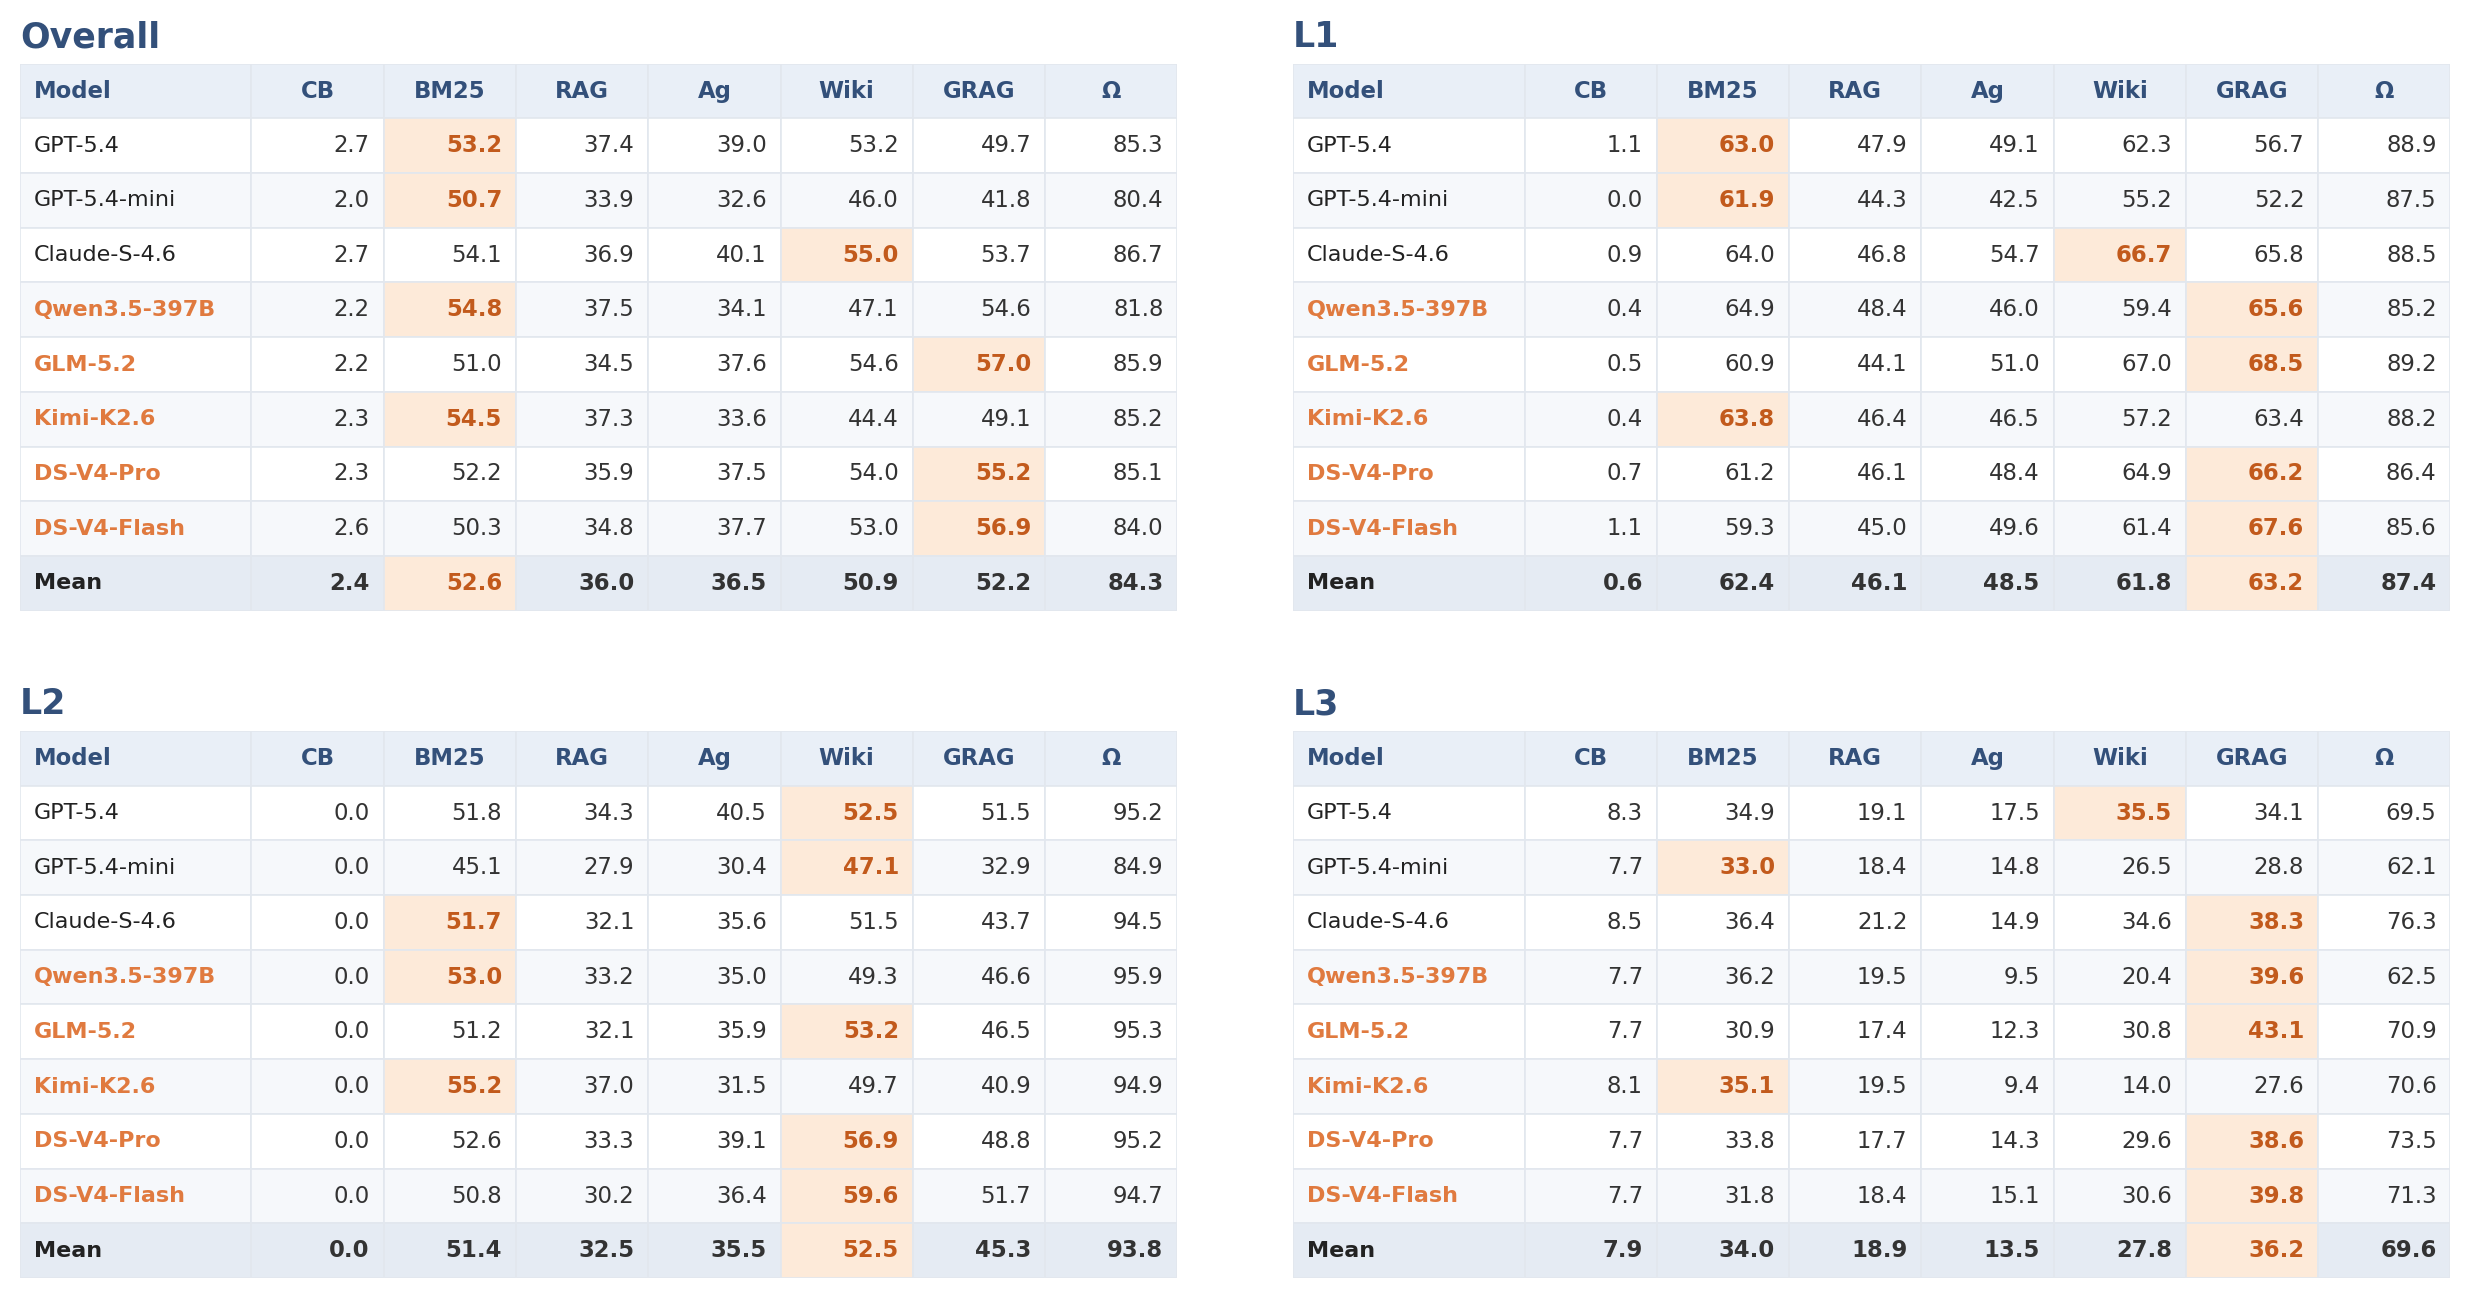
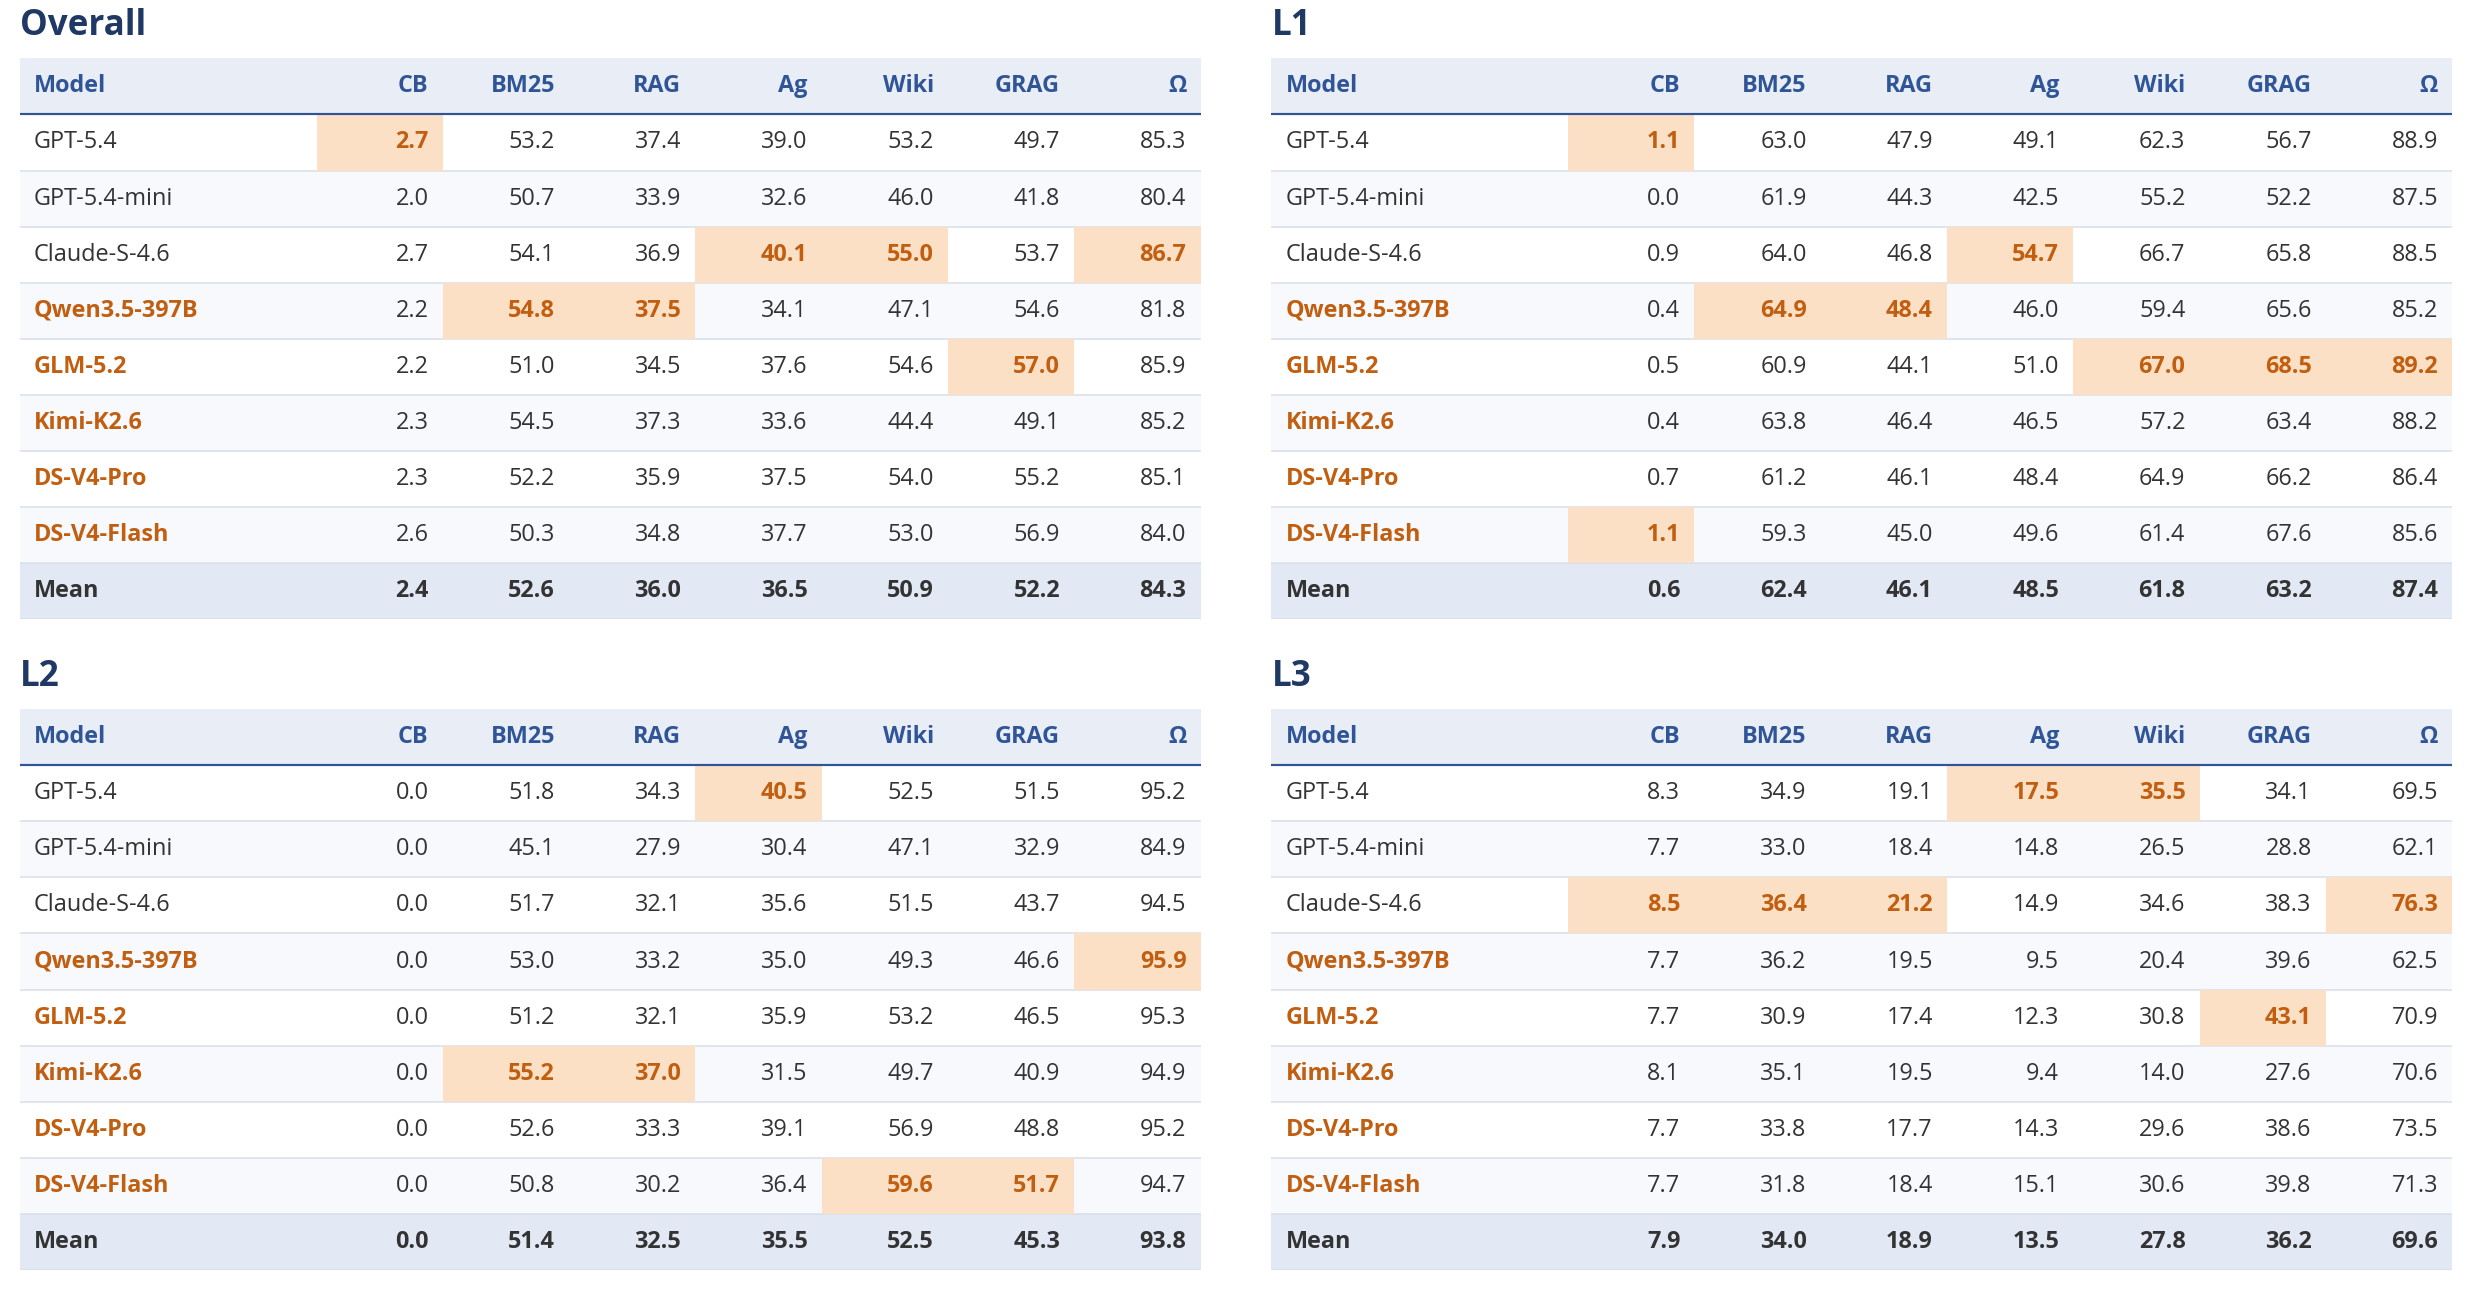
figures: highlight the column-wise best in the results tables
The orange fill marked the best deployable condition per model (row-wise); it
now marks the best model under each access condition (column-wise). The Mean
row is excluded as an aggregate, and the all-zero closed-book column on L2 is
left unmarked. Numbers are unchanged. README caption and the summary line below
the figure follow the new reading.

diff --git a/README.md b/README.md
@@ -104,8 +104,9 @@ with `@register("name")` (see `src/baselines/`).
 ## 📊 Main results
 
 Answer accuracy (**%**) across all 8 answer models and 7 knowledge-access conditions, split into four
-views: **Overall** (tier-weighted over L1 469 / L2 204 / L3 234) and per level. **Bold** = best
-*deployable* condition per model (closed-book **CB** and Oracle **Ω** excluded from the comparison).
+views: **Overall** (tier-weighted over L1 469 / L2 204 / L3 234) and per level. Read **column-wise**:
+the highlighted cell is the **best model under that access condition**. The Mean row is an aggregate
+and is never marked; the all-zero closed-book column on L2 carries no signal and is left unmarked.
 Columns: **CB** closed-book · **Ag** agentic retrieval · **Wiki** LLM Wiki · **GRAG** GraphRAG ·
 **Ω** Oracle ceiling (*n*=216 on L3).
 
@@ -113,7 +114,7 @@ Columns: **CB** closed-book · **Ag** agentic retrieval · **Wiki** LLM Wiki · 
   <img src="figures/results_tables.png" width="90%" alt="Per-model accuracy across access conditions, split by Overall / L1 / L2 / L3">
 </div>
 
-*No single condition owns a level — structural access (GraphRAG / LLM Wiki) leads L2/L3, lexical BM25 is strongest on some L1 — and open-weight models take most of the bold cells.*
+*Open-weight models take 12 of the 20 deployable-condition columns — including **GraphRAG at every level** (GLM-5.2 on Overall/L1/L3, DS-V4-Flash on L2). On L3 the proprietary models lead every column except GraphRAG: where documents stop stating the relation, the winner changes with the substrate, not with the model tier.*
 
 <div align="center">
   <img src="figures/radar_open_vs_closed.png" width="55%" alt="Open-weight vs proprietary capability radar across six access conditions">
